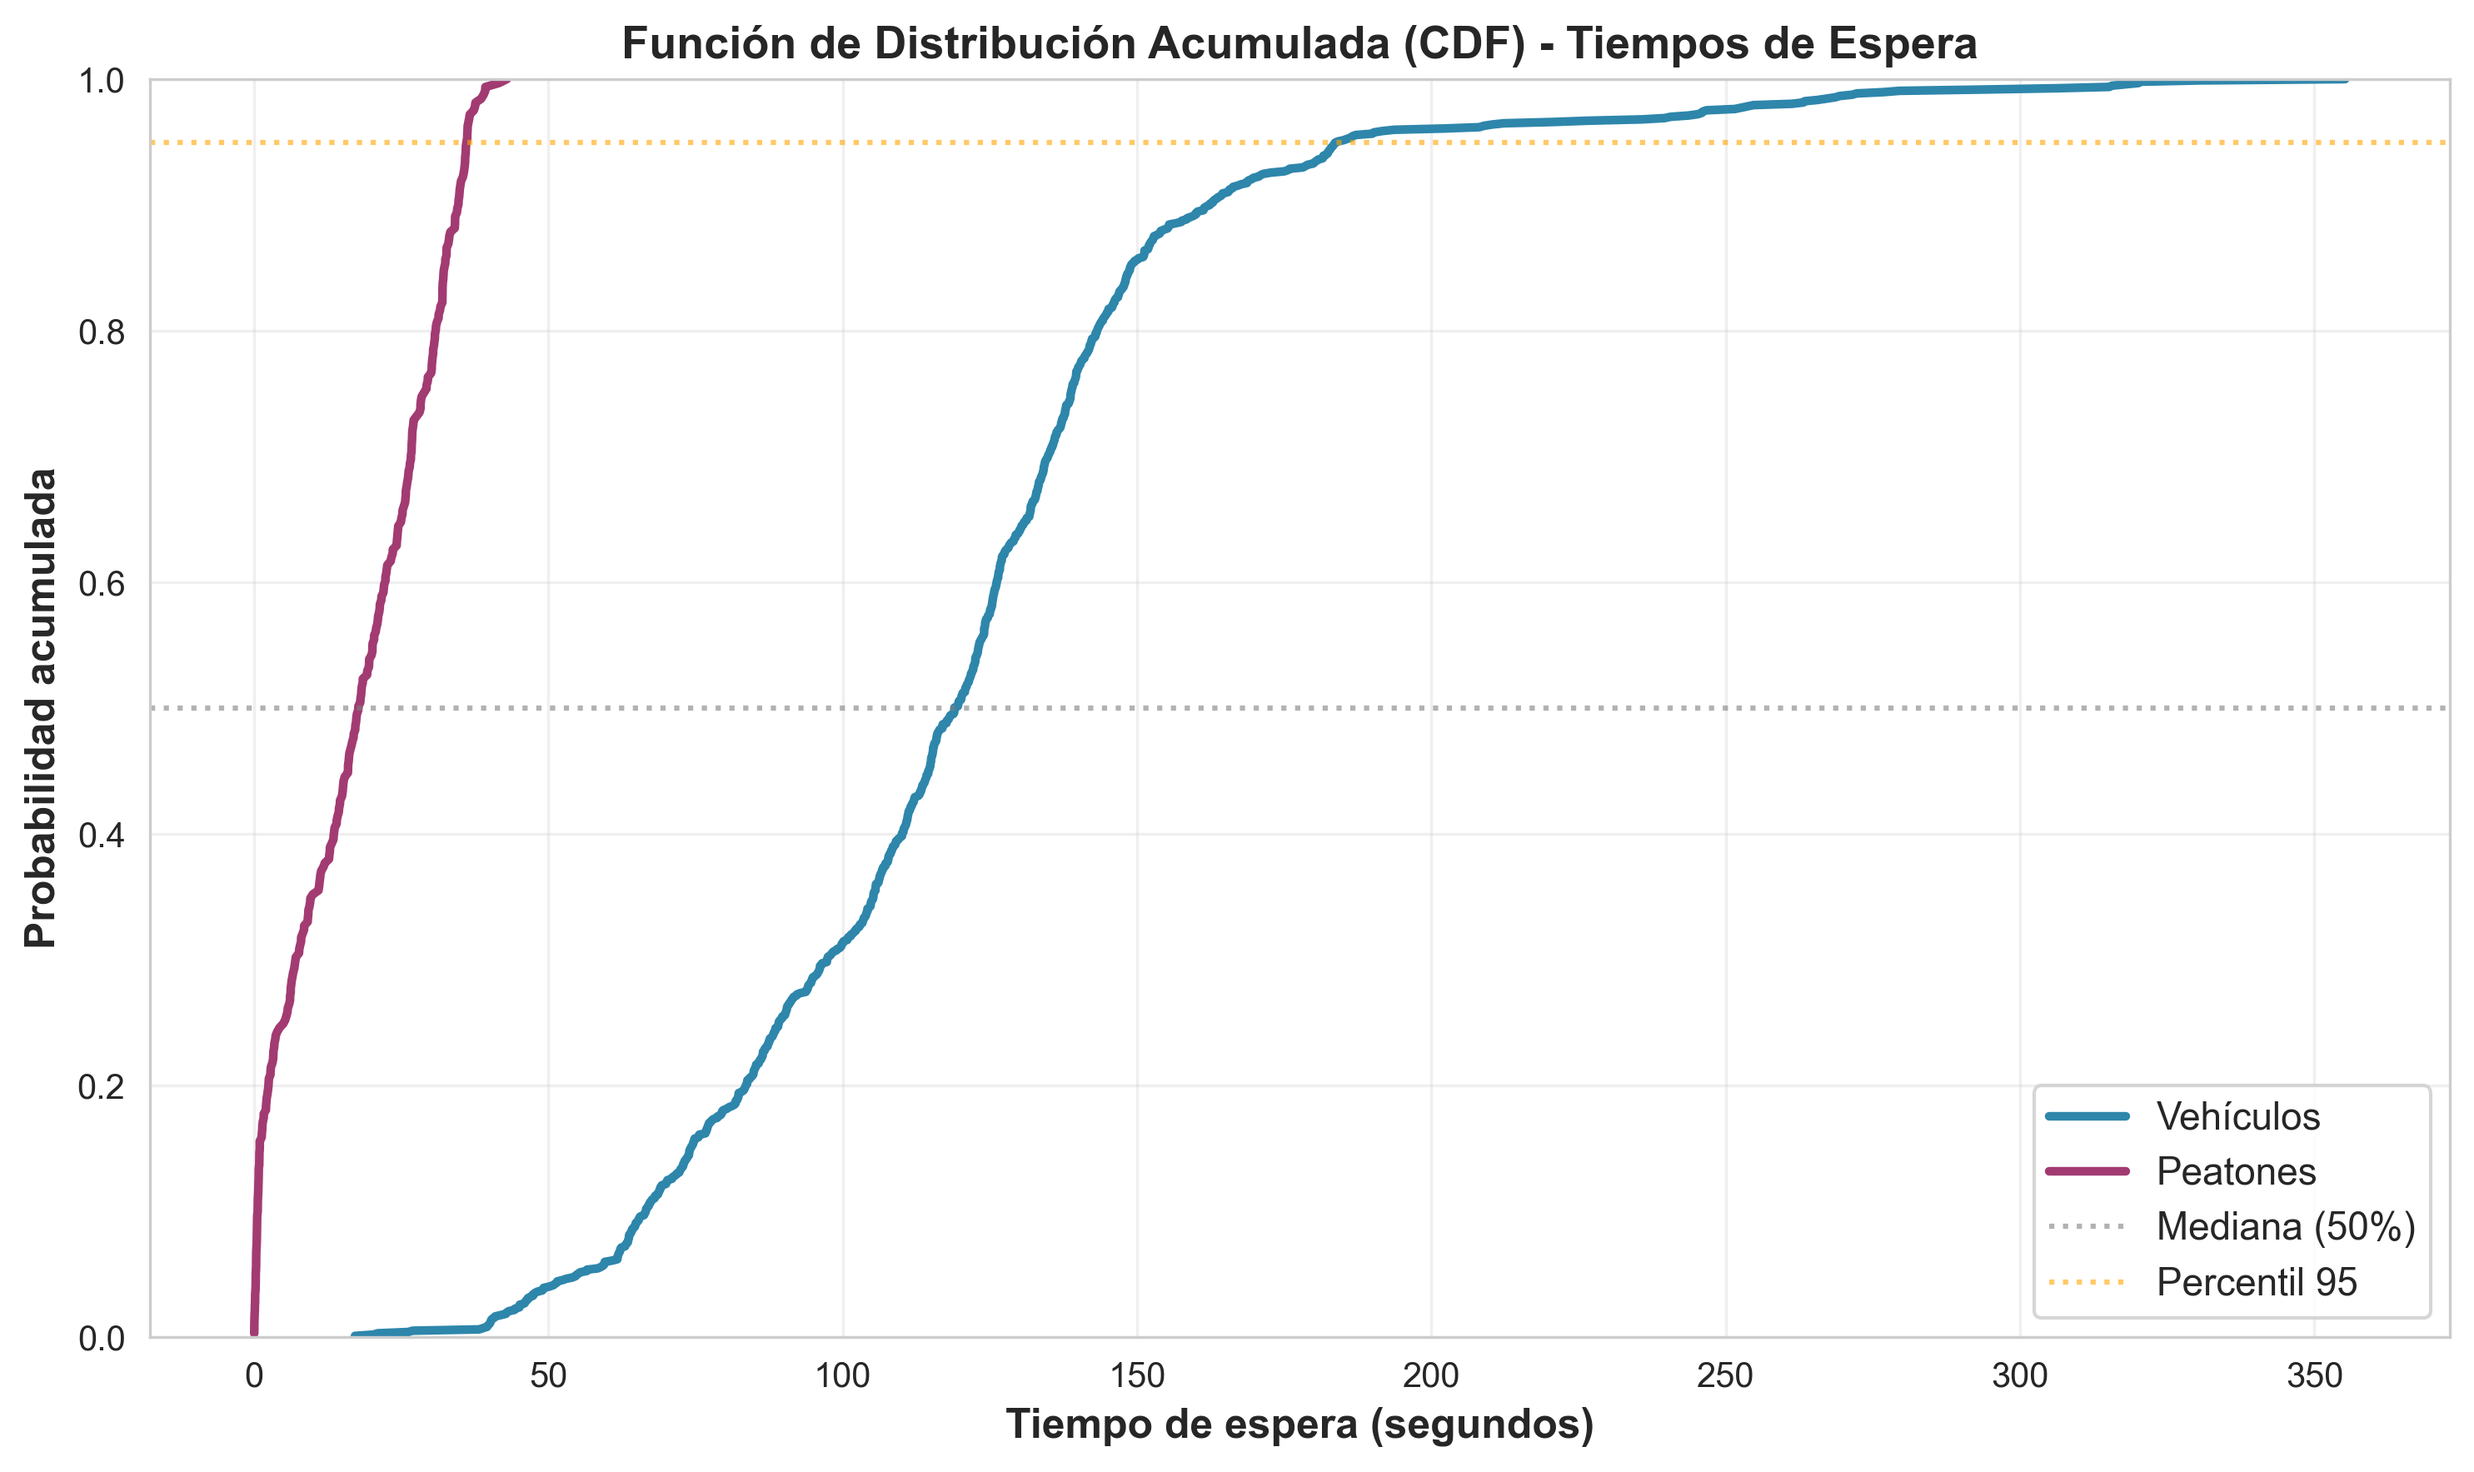
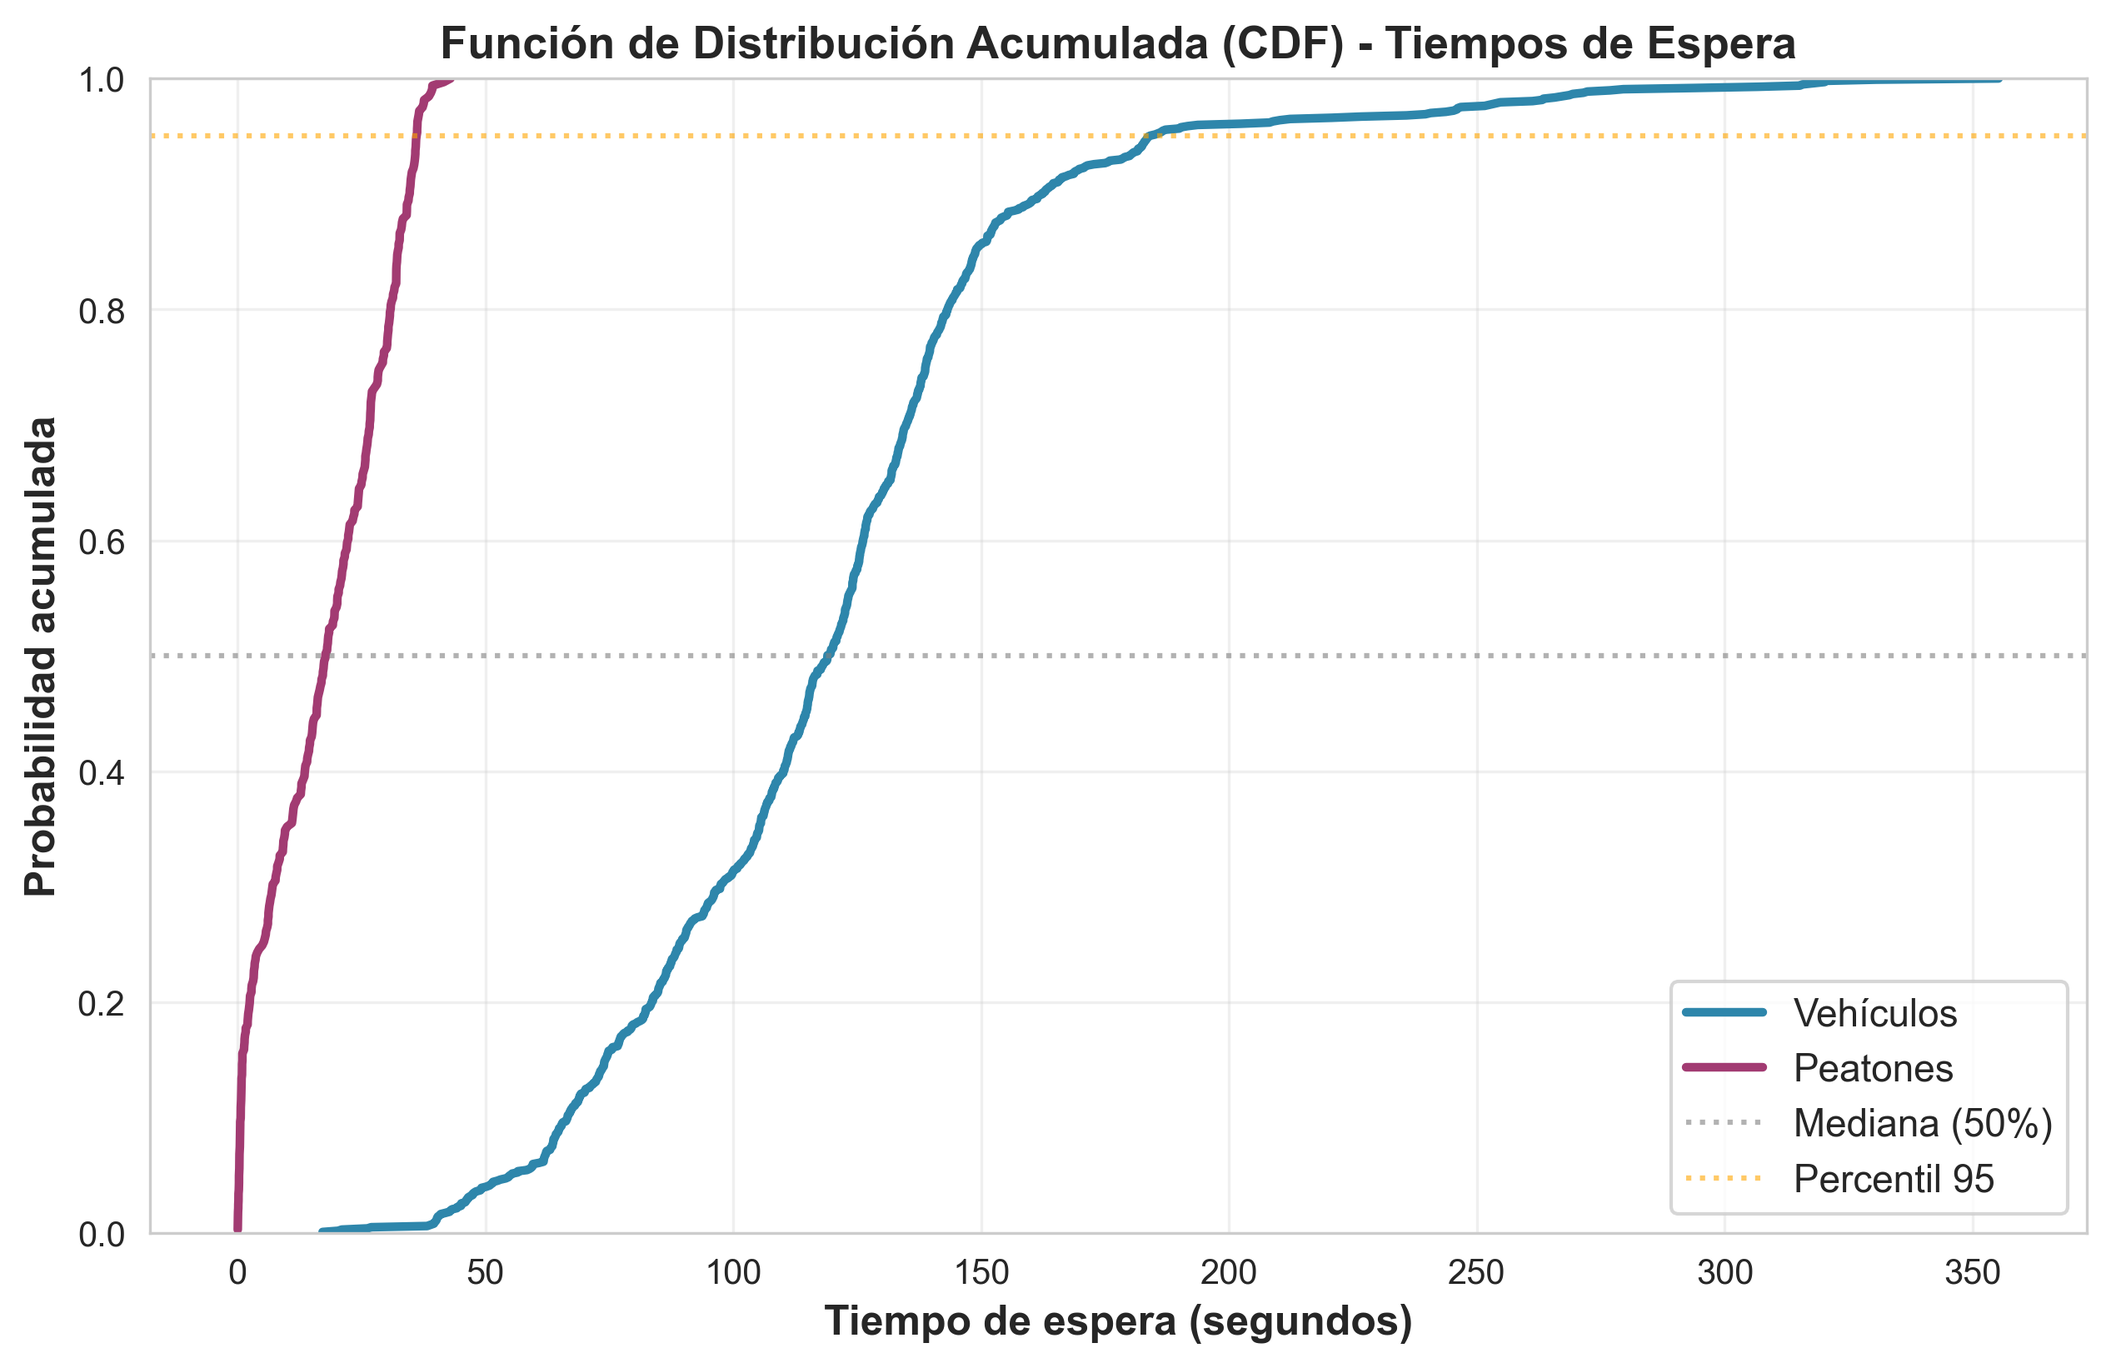
Corrige error en la generacion de graficos

diff --git a/analisis/visualizaciones.py b/analisis/visualizaciones.py
@@ -83,10 +83,7 @@ class VisualizadorSimulacion:
                     for ax in [ax1, ax2]:
                         ax.axvspan(evento['tiempo'], 
                                   evento['tiempo'] + evento['duracion'],
-                                  color=color, alpha=alpha)
-        
-        plt.tight_layout()
-        
+                                  color=color, alpha=alpha)  
         if guardar:
             path = os.path.join(self.directorio_salida, 'series_temporales_colas.png')
             plt.savefig(path, dpi=300, bbox_inches='tight')
@@ -134,7 +131,7 @@ class VisualizadorSimulacion:
             ax2.legend()
             ax2.grid(True, alpha=0.3)
         
-        plt.tight_layout()
+        #.
         
         if guardar:
             path = os.path.join(self.directorio_salida, 'histogramas_espera.png')
@@ -173,7 +170,7 @@ class VisualizadorSimulacion:
         ax.grid(True, alpha=0.3)
         ax.set_ylim([0, 1])
         
-        plt.tight_layout()
+        #.
         
         if guardar:
             path = os.path.join(self.directorio_salida, 'cdf_espera.png')
@@ -197,7 +194,7 @@ class VisualizadorSimulacion:
             print("⚠  No hay suficientes ciclos para graficar")
             return None
         
-        fig, ax = plt.subplots(figsize=(14, max(6, n_ciclos * 0.5)))
+        fig, ax = plt.subplots(figsize=(14, min(12, max(6, n_ciclos * 0.5))))
         
         # Colores por fase
         colores = {
@@ -255,7 +252,7 @@ class VisualizadorSimulacion:
         ]
         ax.legend(handles=legend_elements, loc='upper right', fontsize=9)
         
-        plt.tight_layout()
+        #.
         
         if guardar:
             path = os.path.join(self.directorio_salida, 'gantt_ciclos.png')
@@ -295,7 +292,7 @@ class VisualizadorSimulacion:
             ax.set_title('Comparación de Tiempos de Espera', fontsize=13, fontweight='bold')
             ax.grid(True, axis='y', alpha=0.3)
         
-        plt.tight_layout()
+        #.
         
         if guardar:
             path = os.path.join(self.directorio_salida, 'boxplot_espera.png')
@@ -339,7 +336,7 @@ class VisualizadorSimulacion:
             ax2.legend()
             ax2.grid(True, axis='y', alpha=0.3)
         
-        plt.tight_layout()
+        #.
         
         if guardar:
             path = os.path.join(self.directorio_salida, 'metricas_por_ciclo.png')
@@ -381,7 +378,7 @@ class VisualizadorSimulacion:
         
         # Gantt
         print("📊 Generando diagrama de Gantt...")
-        fig = self.graficar_gantt_ciclos(n_ciclos=10)
+        fig = self.graficar_gantt_ciclos(n_ciclos=5)
         if fig:
             graficos_generados.append('gantt_ciclos.png')
             plt.close(fig)
@@ -464,7 +461,7 @@ def comparar_visualizaciones(analizador_fijo, analizador_adaptativo, directorio_
     
     plt.suptitle('Comparación: Semáforo Fijo vs Adaptativo', 
                 fontsize=15, fontweight='bold', y=1.00)
-    plt.tight_layout()
+    #.
     
     path = os.path.join(directorio_salida, 'comparacion_fijo_vs_adaptativo.png')
     plt.savefig(path, dpi=300, bbox_inches='tight')
